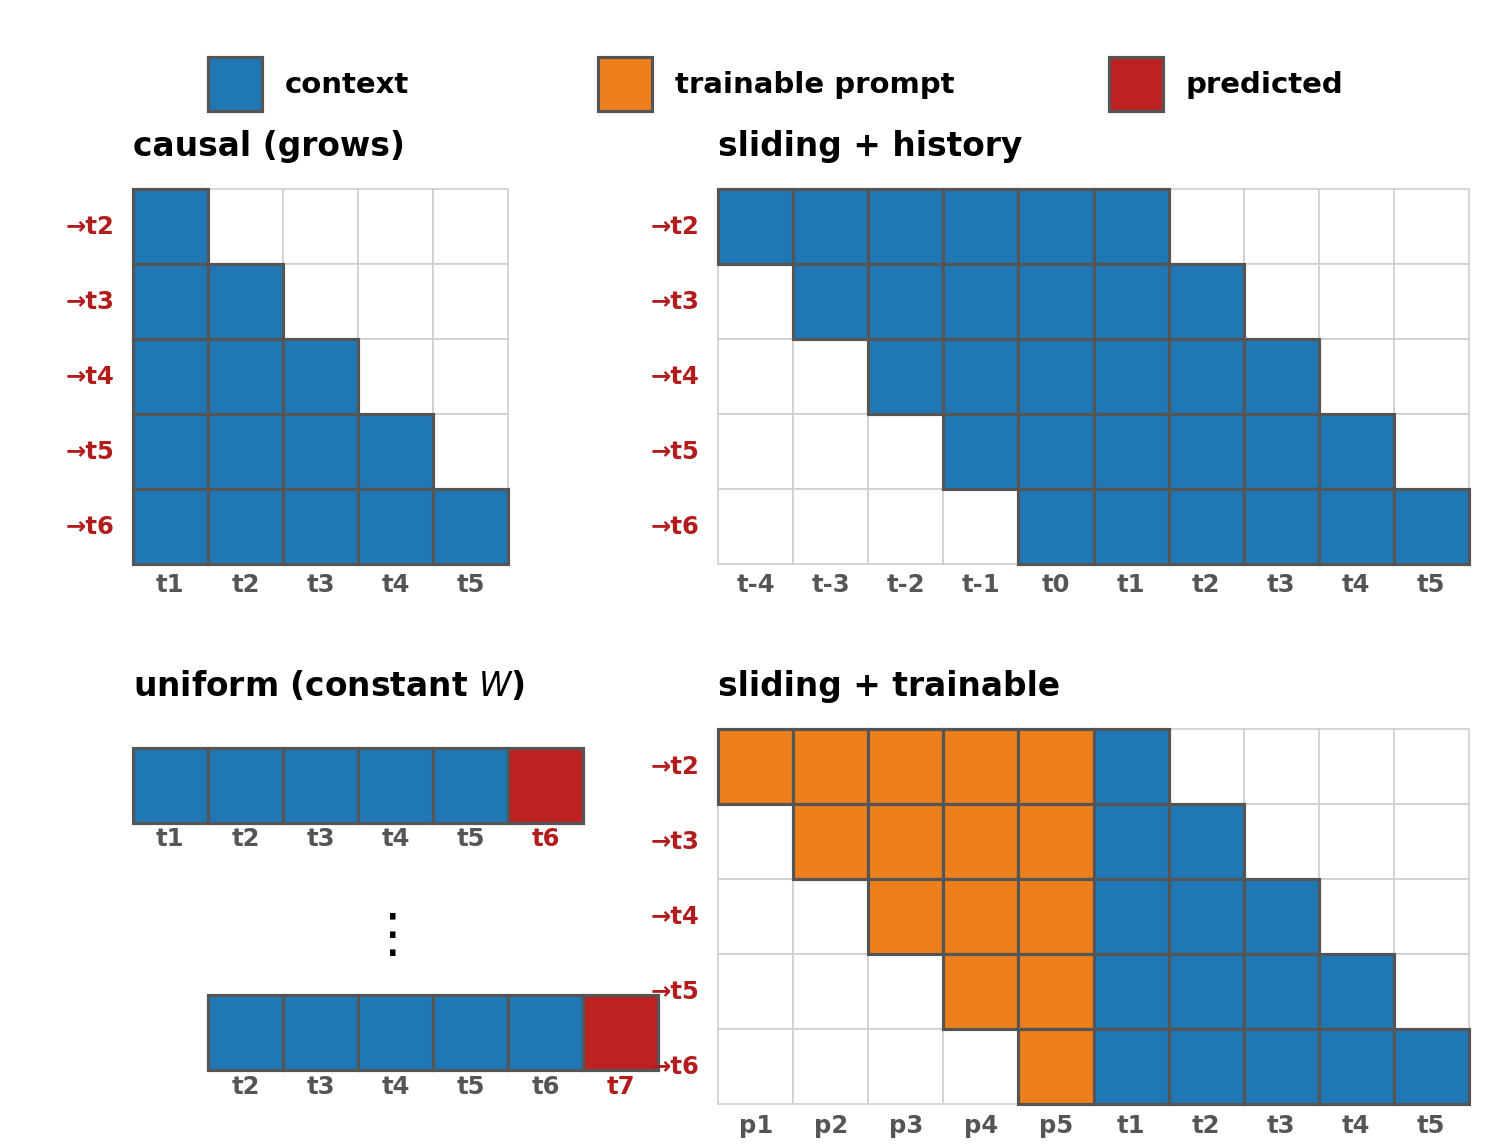
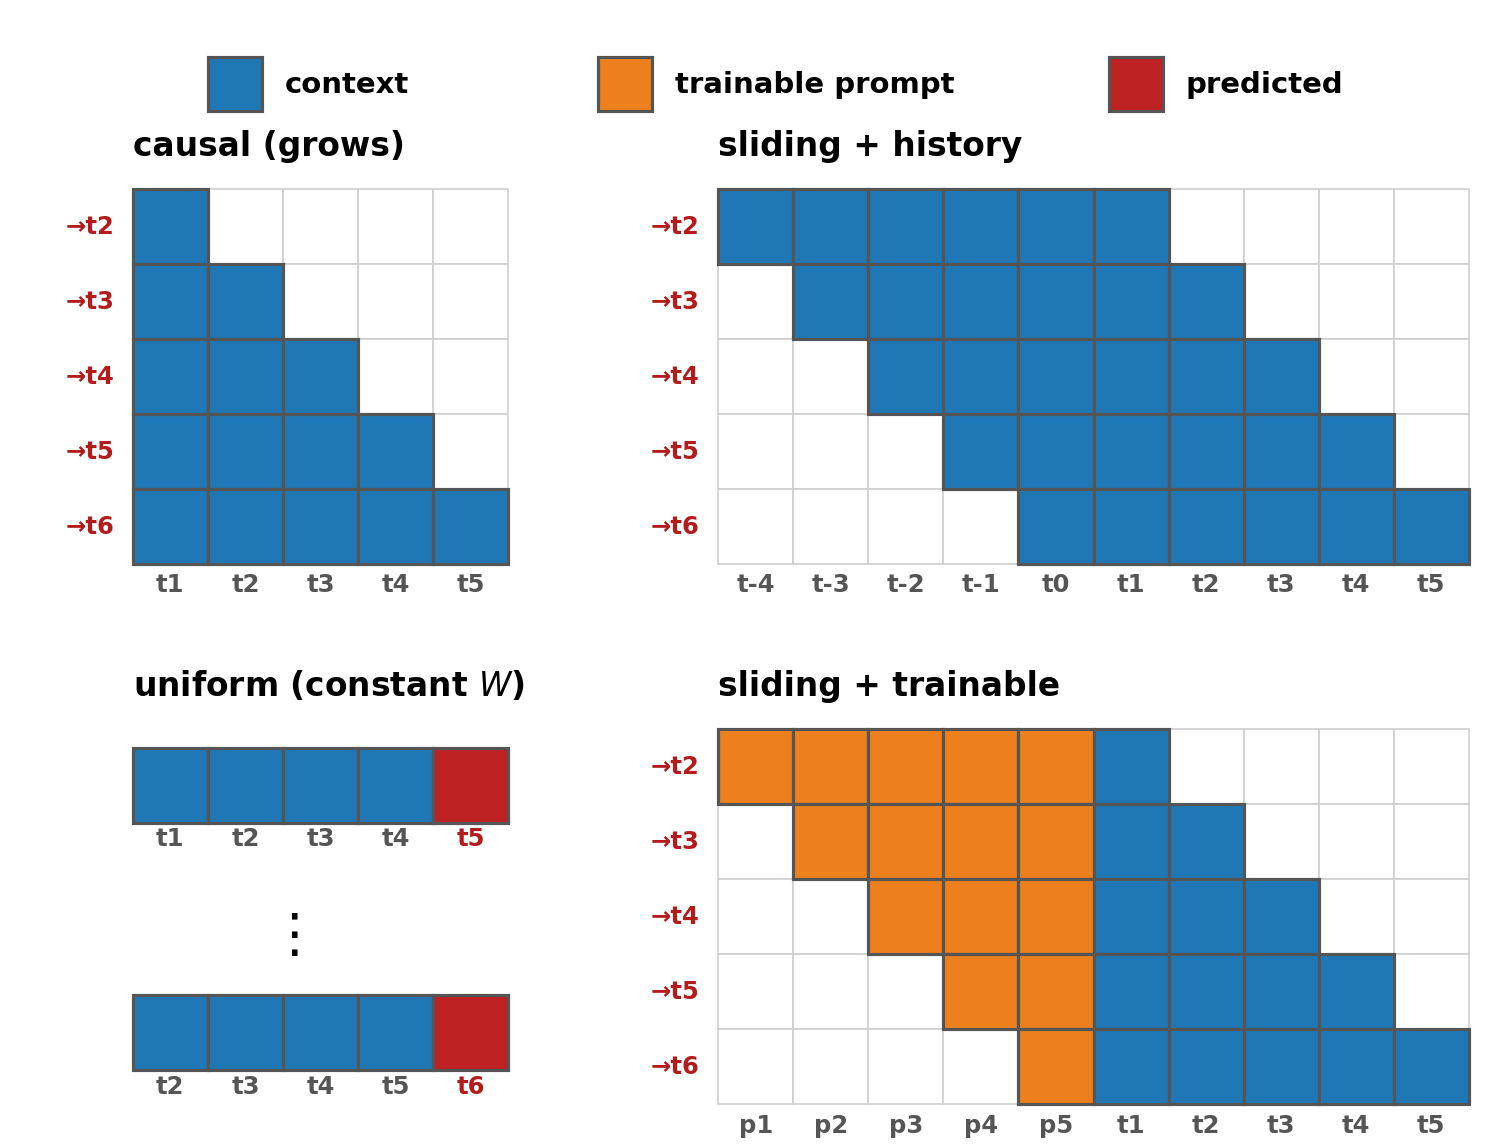
paper fig: uniform = two right-aligned 5-length predict-last sequences (predicted tokens line up) + vdots; update caption

Changed region(s): [[0.2788, 0.8544, 0.4646, 0.9459], [0.2788, 0.6408, 0.4027, 0.7323], [0.062, 0.8544, 0.1549, 0.9459]]

diff --git a/paper/attention-sink/main.tex b/paper/attention-sink/main.tex
@@ -77,7 +77,7 @@ We state four hypotheses, each a claim presented with its mechanism and the expe
 \begin{figure}[t]
 \centering
 \includegraphics[width=\linewidth]{figures/windowed_attention.png}
-\caption{Four continued-pretraining regimes (token labels coloured \textcolor[rgb]{0.33,0.33,0.33}{grey} for \emph{context} and \textcolor[rgb]{0.70,0.11,0.11}{crimson} for \emph{predicted}). \textbf{Top, attention masks} (rows = a predicting step, columns = attended positions; both predict every token): the standard \emph{causal} mask, where context grows with position; and a \emph{sliding window} of constant width $W$ whose cold start is filled with real prior text (blue, the same as content --- history is just earlier context). \textbf{Bottom:} the \emph{uniform window} is not an attention mask but fixed-length training --- a stack of fixed-length sequences (two shown, shifted along the stream, $\vdots$ for the rest), each conditioning on exactly $W$ real tokens and predicting only its last token (crimson), so it also runs on a recurrence; and a \emph{sliding window with trainable tokens}, whose cold start is filled by a trainable startup prompt (orange) that slides out as content accumulates. Older real context must be carried by the weights.}
+\caption{Four continued-pretraining regimes (token labels coloured \textcolor[rgb]{0.33,0.33,0.33}{grey} for \emph{context} and \textcolor[rgb]{0.70,0.11,0.11}{crimson} for \emph{predicted}). \textbf{Top, attention masks} (rows = a predicting step, columns = attended positions; both predict every token): the standard \emph{causal} mask, where context grows with position; and a \emph{sliding window} of constant width $W$ whose cold start is filled with real prior text (blue, the same as content --- history is just earlier context). \textbf{Bottom:} the \emph{uniform window} is not an attention mask but fixed-length training --- a stack of fixed-length sequences (two successive ones shown, right-aligned, $\vdots$ for the rest), each predicting only its last token (crimson) from its preceding context, so it also runs on a recurrence; and a \emph{sliding window with trainable tokens}, whose cold start is filled by a trainable startup prompt (orange) that slides out as content accumulates. Older real context must be carried by the weights.}
 \label{fig:windowed}
 \end{figure}
 

diff --git a/experiments/07_autoresearch_sink/scripts/make_windowed_attention_fig.py b/experiments/07_autoresearch_sink/scripts/make_windowed_attention_fig.py
@@ -34,14 +34,14 @@ for c,t in enumerate(["t1","t2","t3","t4","t5"]): XL(ox+c,oy+5+.12,t,CTX)
 attn(7.8,0,"sliding + history",HISTC,["t-4","t-3","t-2","t-1","t0","t1","t2","t3","t4","t5"])
 # UNIFORM (NOT attention) -- two example sequences shifted along the stream + vertical dots = stacking dataset
 ox,oy=0,7.2; TT(ox,oy-.35,"uniform (constant $W$)")
-def useq(sx,ry,toks):
-    for c in range(5): Cl(ox+sx+c,ry,CONTENT)
-    Cl(ox+sx+5,ry,PREDC)
-    cc=[CTX]*5+[PRD]
-    for c in range(6): XL(ox+sx+c,ry+1.05,toks[c],cc[c])
-useq(0,7.45,["t1","t2","t3","t4","t5","t6"])
-ax.text(ox+3.3,9.95,r"$\vdots$",fontsize=22,fontweight="bold",ha="center",va="center")
-useq(1,10.75,["t2","t3","t4","t5","t6","t7"])
+def useq(ry,toks):              # 5-length sequence: 4 context + predict-last; both right-aligned (cols 0-4)
+    for c in range(4): Cl(ox+c,ry,CONTENT)
+    Cl(ox+4,ry,PREDC)
+    cc=[CTX]*4+[PRD]
+    for c in range(5): XL(ox+c,ry+1.05,toks[c],cc[c])
+useq(7.45,["t1","t2","t3","t4","t5"])
+ax.text(ox+2.0,9.95,r"$\vdots$",fontsize=22,fontweight="bold",ha="center",va="center")
+useq(10.75,["t2","t3","t4","t5","t6"])
 # SLIDING+TRAINABLE -- right col, bottom
 attn(7.8,7.2,"sliding + trainable",PROMPT,["p1","p2","p3","p4","p5","t1","t2","t3","t4","t5"])
 # compact legend drawn in-canvas just above the panels (close to content, fills width)
